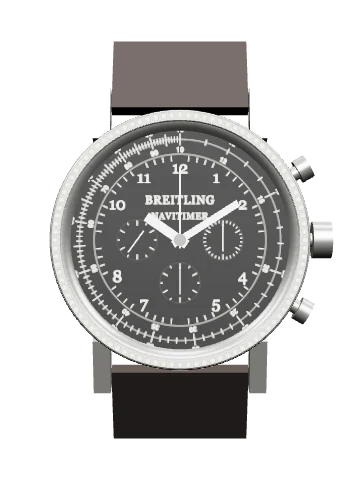
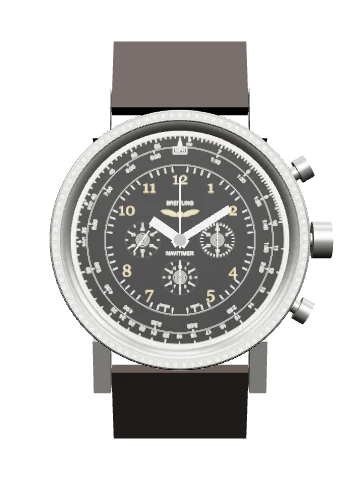
Navitimer 806 front checked against photographs: slide rule relaid with 60 under the MPH arrow, white turning ring, hours-and-minutes scale, unit marks, emblem, lettering and register figures

Changed region(s): [[0.1833, 0.25, 0.825, 0.75]]

diff --git a/draw.js b/draw.js
@@ -34,7 +34,7 @@ function geo(w) {
     g.hw = R; g.hh = cu ? R * 1.12 : R; g.bezR = cu ? R * 0.9 : R; g.dialR = g.bezR - bw - 0.5;
     g.outline = cu ? rrD(R, g.hh, R * 0.6) : circD(R); g.dial = circD(g.dialR);
     g.lugW = c.lug ? c.lug[0] : 20; g.l2l = cu ? g.hh * 2 : c.d * 1.2;
-    let fl = 0; if (w.dial.flange) fl = 1.7; if (w.dial.sliderule) fl = 4.6;
+    let fl = 0; if (w.dial.flange) fl = 1.7; if (w.dial.sliderule) fl = w.dial.sliderule === '806' ? 6.3 : 4.6;
     g.inR = g.dialR - fl; g.edge = () => g.inR; g.hl = g.inR * 0.9; g.lugs = !cu; g.cwh = g.hh; g.dw = g.dialR;
   } else if (c.shape === 'tank') {
     g.hw = c.w / 2; g.hh = c.h / 2; g.bw = 2.7; g.bodyH = g.hh * 0.8;
@@ -182,7 +182,7 @@ function bezel(w, g) {
     TACHY.forEach(v => { const a = 21600 / v; s += T(v, 0, 0, sz, 'tx bz', `transform="rotate(${f(a)}) translate(0,${f(-rm + sz * 0.36)})"`); });
     for (let i = 0; i < 60; i++) { const p = P(i * 6 + 3, ri + 0.3); s += C(0.09, p[0], p[1], 'k'); }
   } else if (b.type === 'slide') {
-    for (let i = 0; i < 96; i++) { const p = P(i * 3.75, R - 0.55); s += C(0.45, p[0], p[1], 'p'); }
+    for (let i = 0, n = b.beads || 96; i < n; i++) { const p = P(i * 360 / n, R - 0.55); s += C(0.45, p[0], p[1], 'p'); }
     s += C(ri, 0, 0, 'l');
   } else s += C(ri, 0, 0, 'l');
   return s;
@@ -335,7 +335,8 @@ function subs(w, g, o = {}) {
       if (d.subWord && pos === 6 && k > 0.15) { const r = rs * k, g0 = 55 * Math.PI / 180, x = r * Math.sin(g0), y = r * Math.cos(g0); s += Pa(`M${f(cx + x)},${f(cy + y)}A${f(r)},${f(r)} 0 1 0 ${f(cx - x)},${f(cy + y)}`, 'hair'); }
       else s += C(rs * k, cx, cy, 'hair'); }
     if (d.subWord && pos === 6) s += T(d.subWord, cx, cy + rs * 0.3, rs * 0.14, 'tx dl', 'style="font-family:Helvetica,Arial,sans-serif"');
-    if (d.subNums && !d.subSquare) (role === 'hr12' ? [[0, 12], [90, 3], [180, 6], [270, 9]] : role === 'min30' ? [[0, 30], [120, 10], [240, 20]] : [[0, 60], [120, 20], [240, 40]]).forEach(q => { const p = P(q[0], rs * 0.56, cx, cy), z = rs * 0.3; s += T(q[1], p[0], p[1] + z * 0.36, z, 'tx sn', 'style="font-family:Helvetica,Arial,sans-serif"'); }); // the figures printed in each register
+    if (d.subNums === 'all' && !d.subSquare) { const n2 = role === 'hr12' ? 12 : 6, st = role === 'hr12' ? 1 : role === 'min30' ? 5 : 10; for (let i = 0; i < n2; i++) { const p = P(i * 360 / n2, rs * 0.6, cx, cy), z = rs * 0.21; s += T(i ? i * st : n2 * st, p[0], p[1] + z * 0.36, z, 'tx sn', 'style="font-family:Helvetica,Arial,sans-serif"'); } } // a figure at every step, as on the Navitimer
+    else if (d.subNums && !d.subSquare) (role === 'hr12' ? [[0, 12], [90, 3], [180, 6], [270, 9]] : role === 'min30' ? [[0, 30], [120, 10], [240, 20]] : [[0, 60], [120, 20], [240, 40]]).forEach(q => { const p = P(q[0], rs * 0.56, cx, cy), z = rs * 0.3; s += T(q[1], p[0], p[1] + z * 0.36, z, 'tx sn', 'style="font-family:Helvetica,Arial,sans-serif"'); }); // the figures printed in each register
     if (!o.noHands) s += `<g transform="translate(${cx},${cy})"><g ${role === 'sec' ? `data-hand="s" data-bps="${b}"` : `data-chr="${role === 'min30' ? 'm' : 'h'}"`}>${L(0, 0.8, 0, -rs * 0.82, 'hd')}</g>${C(0.32, 0, 0, 'k')}</g>`;
   }
   return s;
@@ -357,6 +358,10 @@ function dtext(w, g, o) {
     const q = d.set, sans = 'style="font-family:Helvetica,Arial,sans-serif" letter-spacing=".03em"';
     if (q.omega != null) s += T('Ω', 0, R0 * q.omega, R0 * 0.13, 'tx om', 'style="font-family:Helvetica,Arial,sans-serif"'); // the applied metal emblem, shown as the letter
     if (q.shield != null) { const W = R0 * 0.3, H = R0 * 0.15, y0 = R0 * q.shield; s += Pa(polyD([[f(-W / 2), f(y0)], [f(W / 2), f(y0)], [f(W / 2 - W * 0.06), f(y0 + H * 0.6)], [0, f(y0 + H)], [f(-W / 2 + W * 0.06), f(y0 + H * 0.6)]]), 't') + T('HEUER', 0, y0 + H * 0.56, H * 0.48, 'tx dl', 'style="font-family:Helvetica,Arial,sans-serif;font-weight:bold"'); } // Heuer's printed shield, as a plain five-sided outline
+    if (q.wings != null) { const y0 = R0 * q.wings, u = R0 * 0.26; // the applied winged emblem, as a plain pair of wings about a small shield; not the maker's drawing
+      for (const sx of [-1, 1]) s += Pa(`M${f(sx * u * 0.12)},${f(y0)}Q${f(sx * u * 0.5)},${f(y0 - u * 0.34)} ${f(sx * u)},${f(y0 - u * 0.2)}Q${f(sx * u * 0.8)},${f(y0 + u * 0.02)} ${f(sx * u * 0.55)},${f(y0 + u * 0.02)}Q${f(sx * u * 0.4)},${f(y0 + u * 0.14)} ${f(sx * u * 0.12)},${f(y0 + u * 0.1)}Z`, 'p wg');
+      s += Pa(polyD([[f(-u * 0.14), f(y0 - u * 0.12)], [f(u * 0.14), f(y0 - u * 0.12)], [f(u * 0.14), f(y0 + u * 0.08)], [0, f(y0 + u * 0.2)], [f(-u * 0.14), f(y0 + u * 0.08)]]), 'p wg'); }
+    if (q.split) q.split.forEach((t, i) => { const p = P(180 + (i ? -13 : 13), (g.inR || R0) - 1.0); s += T(t, p[0], p[1], R0 * 0.04, 'tx dl', `${sans} transform="rotate(${i ? -13 : 13} ${f(p[0])} ${f(p[1])})"`); }); // two words at the foot, one each side of the lower register
     if (q.crown != null) { const u = R0 * 0.075, y0 = R0 * q.crown; s += Pa(polyD([[-.55, 0], [-.95, -.7], [-.45, -.32], [-.5, -.98], [-.12, -.38], [0, -1.12], [.12, -.38], [.5, -.98], [.45, -.32], [.95, -.7], [.55, 0]].map(p => [f(p[0] * u), f(y0 + p[1] * u)])), 'k dl') + [[-.95, -.7], [-.5, -.98], [0, -1.12], [.5, -.98], [.95, -.7]].map(p => C(u * 0.1, p[0] * u, y0 + p[1] * u, 'k dl')).join('') + RC(-0.55 * u, y0 + 0.08 * u, 1.1 * u, 0.12 * u, 'k dl'); }
     q.lines.forEach(l => { s += T(l[0].replace(/&/g, '&amp;'), 0, R0 * l[1], R0 * l[2], 'tx dl', l[3] === 2 ? 'style="font-style:italic"' : l[3] ? sans : 'letter-spacing=".06em"'); }); // 2: a script line, approximated in italic
     if (q.foot) s += T(q.foot, 0, R0 - 0.12, R0 * 0.042, 'tx dl', sans);
@@ -423,7 +428,21 @@ function dial(w, g, o) {
     else if (d.flange === 'tachy') { for (let i = 0; i < 60; i++) s += rad(i * 6, r + 0.15, r + 0.55, 't'); [200, 150, 120, 100, 90, 80, 70, 60].forEach(v => { s += T(v, 0, 0, 0.95, 'tx bz', `transform="rotate(${f(21600 / v)}) translate(0,${f(-r - 0.65)})"`); }); }
     else for (let i = 0; i < 60; i++) s += rad(i * 6, r + 0.2, r + (i % 5 ? 0.8 : 1.4), 't');
   }
-  if (d.sliderule) {
+  if (d.sliderule === '806') {
+    /* The Navitimer 806's slide rule, laid out from Watch Club's photographs of an example of 1959. From the outside in: the white ring that turns with the bezel, with black figures;
+       the fixed scale on the black dial, with 60 at twelve under an arrow marked MPH and 70, 80 and 90 written 7, 8 and 9; and a scale of hours and minutes beneath it, on which
+       1:10 stands under 7 and 9:00 under 54. Both logarithmic scales are true: a value x stands at 360 x log10(x / 60) degrees. The marks KM, STAT and NAUT are placed by arithmetic
+       from the lengths of the mile, the nautical mile and the kilometre. The finer divisions and the small minute figures inside the scales are left out. */
+    const Rd = g.dialR, r1 = Rd - 1.75, r2 = Rd - 3.5, ang = x => ((360 * Math.log10(x / 60)) % 360 + 360) % 360, dk = 'style="stroke:#161616"', dkf = 'style="fill:#161616;font-family:Helvetica,Arial,sans-serif"', sn = 'style="font-family:Helvetica,Arial,sans-serif"';
+    s += C(Rd, 0, 0, 'p') + C(r1, 0, 0, 'tn') + C(r2, 0, 0, 'hair') + C(g.inR, 0, 0, 'hair');
+    for (let x = 10; x < 100; x++) { const a = ang(x), big = x % 5 === 0; s += `<g ${dk}>${rad(a, r1, r1 + (big ? 0.6 : 0.36), 't')}</g>` + rad(a, r1 - (big ? 0.6 : 0.36), r1, 't'); }
+    const outer = [], inner = []; for (let x = 10; x <= 25; x++) { outer.push([x, x]); inner.push([x, x]); } for (let x = 30; x <= 95; x += 5) { outer.push([x, x]); if (x < 60) inner.push([x, x]); } inner.push([70, 7], [80, 8], [90, 9]);
+    outer.forEach(q => { s += T(q[1], 0, 0, 0.82, 'tx', `${dkf} transform="rotate(${f(ang(q[0]))}) translate(0,${f(-r1 - 0.78)})"`); });
+    inner.forEach(q => { s += T(q[1], 0, 0, 0.82, 'tx', `${sn} transform="rotate(${f(ang(q[0]))}) translate(0,${f(-r1 + 1.5)})"`); });
+    s += Pa(polyD([[-0.42, f(-r2 - 0.1)], [0.42, f(-r2 - 0.1)], [0, f(-r1 + 0.05)]]), 'p') + RC(-1.05, -r2 + 0.08, 2.1, 0.92, 't') + T('MPH', 0, -r2 + 0.78, 0.72, 'tx', sn);
+    [['KM', 100 / 1.609344], ['STAT', 38.62], ['NAUT', 33.53]].forEach(q => { const a = ang(q[1]); s += `<g transform="rotate(${f(a)})">${Pa(polyD([[-0.2, f(-r1 + 0.75)], [0.2, f(-r1 + 0.75)], [0, f(-r1 + 0.1)]]), 'k')}${T(q[0], 0, -r1 + 1.45, 0.55, 'tx', sn)}</g>`; });
+    [[70, '1:10'], [80, '1:20'], [90, '1:30'], [100, '1:40'], [110, '1:50'], [120, '2:00'], [150, '2:30'], [180, '3:00'], [210, '3:30'], [240, '4:00'], [270, '4:30'], [300, '5:00'], [360, '6:00'], [420, '7:00'], [480, '8:00'], [540, '9:00']].forEach(q => { const a = ang(q[0]); s += rad(a, r2 - 0.4, r2, 't') + T(q[1], 0, 0, 0.8, 'tx', `${sn} transform="rotate(${f(a)}) translate(0,${f(-r2 + 1.25)})"`); });
+  } else if (d.sliderule) {
     const rb = g.dialR - 2.3; s += C(rb, 0, 0, 'l') + C(g.inR, 0, 0, 'l');
     for (let x = 10; x < 100; x++) { const a = 360 * Math.log10(x / 10); s += rad(a, rb - (x % 5 ? 0.45 : 0.9), rb + (x % 5 ? 0.45 : 0.9), 't'); }
     SLIDE.forEach(v => { const a = f(360 * Math.log10(v / 10)); s += T(v, 0, 0, 1.05, 'tx bz', `transform="rotate(${a}) translate(0,${f(-g.dialR + 1.15)})"`) + T(v, 0, 0, 1.05, 'tx bz', `transform="rotate(${a}) translate(0,${f(-g.inR - 0.35)})"`); });
@@ -729,10 +748,11 @@ function face(w, real) {
   const gold = real && w.dial.gold ? '.nm,.cal,.dl{fill:#cfa13a}.hc{fill:#cfa13a;stroke:#4a3c16}.mw{fill:#1b2a55;stroke:#cfa13a;stroke-width:.08}.mn{fill:#e3c060;stroke:none}.t,.hair{stroke:#b08a34}.k{fill:#cfa13a}' : '';
   const gilt = real && w.dial.gilt ? '.dl{fill:#c9a45c}.gt .t{stroke:#c9a45c}' : ''; // printing in gilt, as on the early glossy dials
   const ap = real && !w.dial.dark ? '.ap{fill:#a7a8a4}' : ''; // applied steel bars on a pale dial
+  const wg = real && w.dial.goldNums ? '.nm,.wg{fill:#c8ad74}.wg{stroke:#4a3c16;stroke-width:.05}' : ''; // applied gilt figures and emblem
   const sf = real && w.dial.subFills ? 'svg{--so:1;' + Object.entries(w.dial.subFills).map(q => `--sf${q[0]}:${q[1][0]}`).join(';') + '}' + Object.entries(w.dial.subFills).filter(q => q[1][1]).map(q => `.sk${q[0]}{stroke:#ecece8}`).join('') : ''; // each register's colour, and pale marks on the dark ones
   const pinkHands = real && w.dial.goldHands ? '.hc{fill:#cf9a78;stroke:#5a3b2a}.mw{fill:#1b2a55;stroke:#5a3b2a;stroke-width:.08}.mn{fill:#e3c060;stroke:none}' : '';
   const g3 = real && w.dial.custom === 'gyro3' ? '.g3-base{fill:#050506;stroke:none}.g3-met{fill:#5d5f63;stroke:#2f3033;stroke-width:.08}.g3-streak{stroke:#9a9c9f;stroke-width:.07}.g3-rim{fill:#c98d6b;stroke:#5a3b2a;stroke-width:.06}.g3-hole{fill:#09090a}.g3-blue{fill:#0a1340;stroke:#c98d6b;stroke-width:.06}.g3-white{fill:#f2f0e9;stroke:#8a8a86;stroke-width:.05}.g3-ink{stroke:#1a1a1a}.g3-inkf{fill:#1a1a1a;font-family:Helvetica,Arial,sans-serif}.g3-gold{fill:#dba886;stroke:#5a3b2a;stroke-width:.04}.g3-star{fill:#d5dcff}.g3-day{fill:#e3e1da;stroke:none}.g3-steel{fill:#b9bbbd;stroke:#4a4c4f;stroke-width:.07}.g3-screw{fill:#2a55a8;stroke:#0d1f45;stroke-width:.06}.g3-teeth{stroke:#c9cbcd;stroke-width:.09}.g3-sun{fill:#dba886;stroke:none}.g3-ray{stroke:#b98a64;stroke-width:.06}.g3-wt{stroke:#eef0ff}.g3-txt{fill:#e6e6e6}' : '';
-  const s = `<style>${real ? (w.dial.dark ? REAL : REAL_LIGHT) : TECH}${mixed}${gold}${gilt}${ap}${pinkHands}${g3}${sf}</style><circle r="${R}" fill="${real ? '#b5b5af' : '#EDE6D8'}"/><g class="bzd">${bezel(w, g)}</g>` + dial(w, g, { noHands: true });
+  const s = `<style>${real ? (w.dial.dark ? REAL : REAL_LIGHT) : TECH}${mixed}${gold}${gilt}${ap}${wg}${pinkHands}${g3}${sf}</style><circle r="${R}" fill="${real ? '#b5b5af' : '#EDE6D8'}"/><g class="bzd">${bezel(w, g)}</g>` + dial(w, g, { noHands: true });
   // The dial is drawn once as a picture, so the date window is filled here with today's date; on the plates it is filled live.
   const today = new Date(), DAYS3 = ['SUN', 'MON', 'TUE', 'WED', 'THU', 'FRI', 'SAT'];
   const dated = s.replace(new RegExp('(data-date=""[^>]*>)', 'g'), `$1${today.getDate()}`).replace(new RegExp('(data-daydate=""[^>]*>)', 'g'), `$1${DAYS3[today.getDay()]} ${today.getDate()}`);

diff --git a/workbench/watches/navitimer-806.js b/workbench/watches/navitimer-806.js
@@ -54,12 +54,12 @@ export default {
       significance: '', related: ['bezel', 'dial'] },
     { id: 'bezel', name: 'Slide-rule bezel', group: 'Exterior', status: 'D', anchor: [0, 19.4, 4.2], face: 1,
       beginner: 'The ring you turn. It moves the outer ring of numbers against the inner one, which is how the watch does sums.',
-      horologist: 'A rotating bezel with a beaded edge for grip. It carries the outer logarithmic scale, which is read against a fixed scale round the dial. In the model the bezel is a plain ring that does not turn, and the scales are simplified.',
+      horologist: 'A rotating bezel with a beaded edge for grip. It carries the outer logarithmic scale, which is read against a fixed scale round the dial. In the model the bezel is a plain ring that does not turn. The scales are laid out from Watch Club’s photographs of an example of 1959: the white turning ring with black figures; the fixed scale with 60 at twelve under an arrow marked MPH; and a scale of hours and minutes beneath it. Both logarithmic scales are true. The marks KM, STAT and NAUT are placed by arithmetic, and the finer divisions are left out. The dial is drawn with 93 beads round the bezel, the count given for 1960 to 1963; sources give 92 or 94 for 1959.',
       fn: 'Sets one slide-rule scale against the other.', material: 'Steel',
       significance: 'The slide rule is what makes a Navitimer a Navitimer.', related: ['crystal', 'dial'] },
     { id: 'dial', name: 'Dial and registers', group: 'Exterior', status: 'D', anchor: [-8, -1, 2.4], face: 1,
       beginner: 'A black dial with three small circles, ringed by the scales of the slide rule. The left circle shows running seconds; the right and bottom ones count minutes and hours while the stopwatch runs.',
-      horologist: 'Three registers: 30 minutes at 3, 12 hours at 6, running seconds at 9. The model shows an all-black dial; later 806 dials have silver registers. The printing is simplified.',
+      horologist: 'Three registers: 30 minutes at 3, 12 hours at 6, running seconds at 9. The model shows the all-black dial as on an example of 1959: BREITLING above an applied winged emblem with no lettering, applied gilt figures at every hour but 3, 6 and 9, NAVITIMER above the lower register, and SWISS and MADE either side of it. Later 806 dials have silver registers. The lettering is placed from photographs; the emblem is a plain pair of wings, the typefaces are approximations, and the small minute figures inside the scales are left out. The figures in the seconds register are partly inferred: 60, 50 and 30 can be read in the photographs.',
       fn: 'Displays the time, elapsed time and the fixed slide-rule scale.', material: 'Metal dial',
       significance: '', related: ['hands', 'minute-recorder', 'fourth', 'bezel'] },
     { id: 'hands', name: 'Hands', group: 'Exterior', status: 'E', anchor: [3, 9, 3.1], face: 1,

diff --git a/data.js b/data.js
@@ -115,12 +115,12 @@ window.WATCHES = [
 {
   id:'navitimer', brand:'Breitling', model:'Navitimer', ref:'806', year:'c. 1954', span:'c. 1954 – 1970s', kind:'Pilot’s chronograph',
   c:{shape:'round', d:40.5, da:'a', t:[13.5,'n'], lug:[22,'v']},
-  bezel:{type:'slide', w:1.8}, dial:{dark:true, markers:'arabic', sliderule:true, subs:[[3,'min30'],[6,'hr12'],[9,'sec']], text:['BREITLING','NAVITIMER']},
+  bezel:{type:'slide', w:1.8, beads:93}, dial:{dark:true, markers:'arabic', sliderule:'806', goldNums:true, subNums:'all', subRings:true, subs:[[3,'min30'],[6,'hr12'],[9,'sec']], text:['BREITLING','NAVITIMER'], set:{lines:[['BREITLING',-0.47,0.065,1],['NAVITIMER',0.2,0.065,1]], wings:-0.34, split:['SWISS','MADE']}},
   hands:'pencil', sec:'sub', chrono:true, crown:{pos:3}, pushers:'pump', strap:'leather',
   mv:{cal:'Venus 178', type:'chrono', vph:18000, wind:'Manual', note:'Column-wheel chronograph. Some of the earliest examples used the Valjoux 72.'},
   back:{type:'snap', note:'Detail not verified; shown plain.'},
   specs:[['Bezel','Beaded, bidirectional; drives the outer slide-rule scale'],['Scale','Logarithmic circular slide rule'],['Registers','30 min at 3 · 12 h at 6 · seconds at 9']],
-  notes:['Developed with the Aircraft Owners and Pilots Association; its name joins “navigation” and “timer”.','The slide rule computes fuel burn, ground speed, climb rate and unit conversions.','The scale drawn here is a true logarithmic one, simplified to its principal figures.'],
+  notes:['Developed with the Aircraft Owners and Pilots Association; its name joins “navigation” and “timer”.','The slide rule computes fuel burn, ground speed, climb rate and unit conversions.','The scales drawn here are true logarithmic ones, laid out as on an example of 1959, with the finer divisions left out.'],
   q:{t:'What is the Navitimer’s rotating scale?', a:'A circular slide rule for flight calculations', w:['A decompression table','A second time zone','A tide indicator']}
 },
 {
